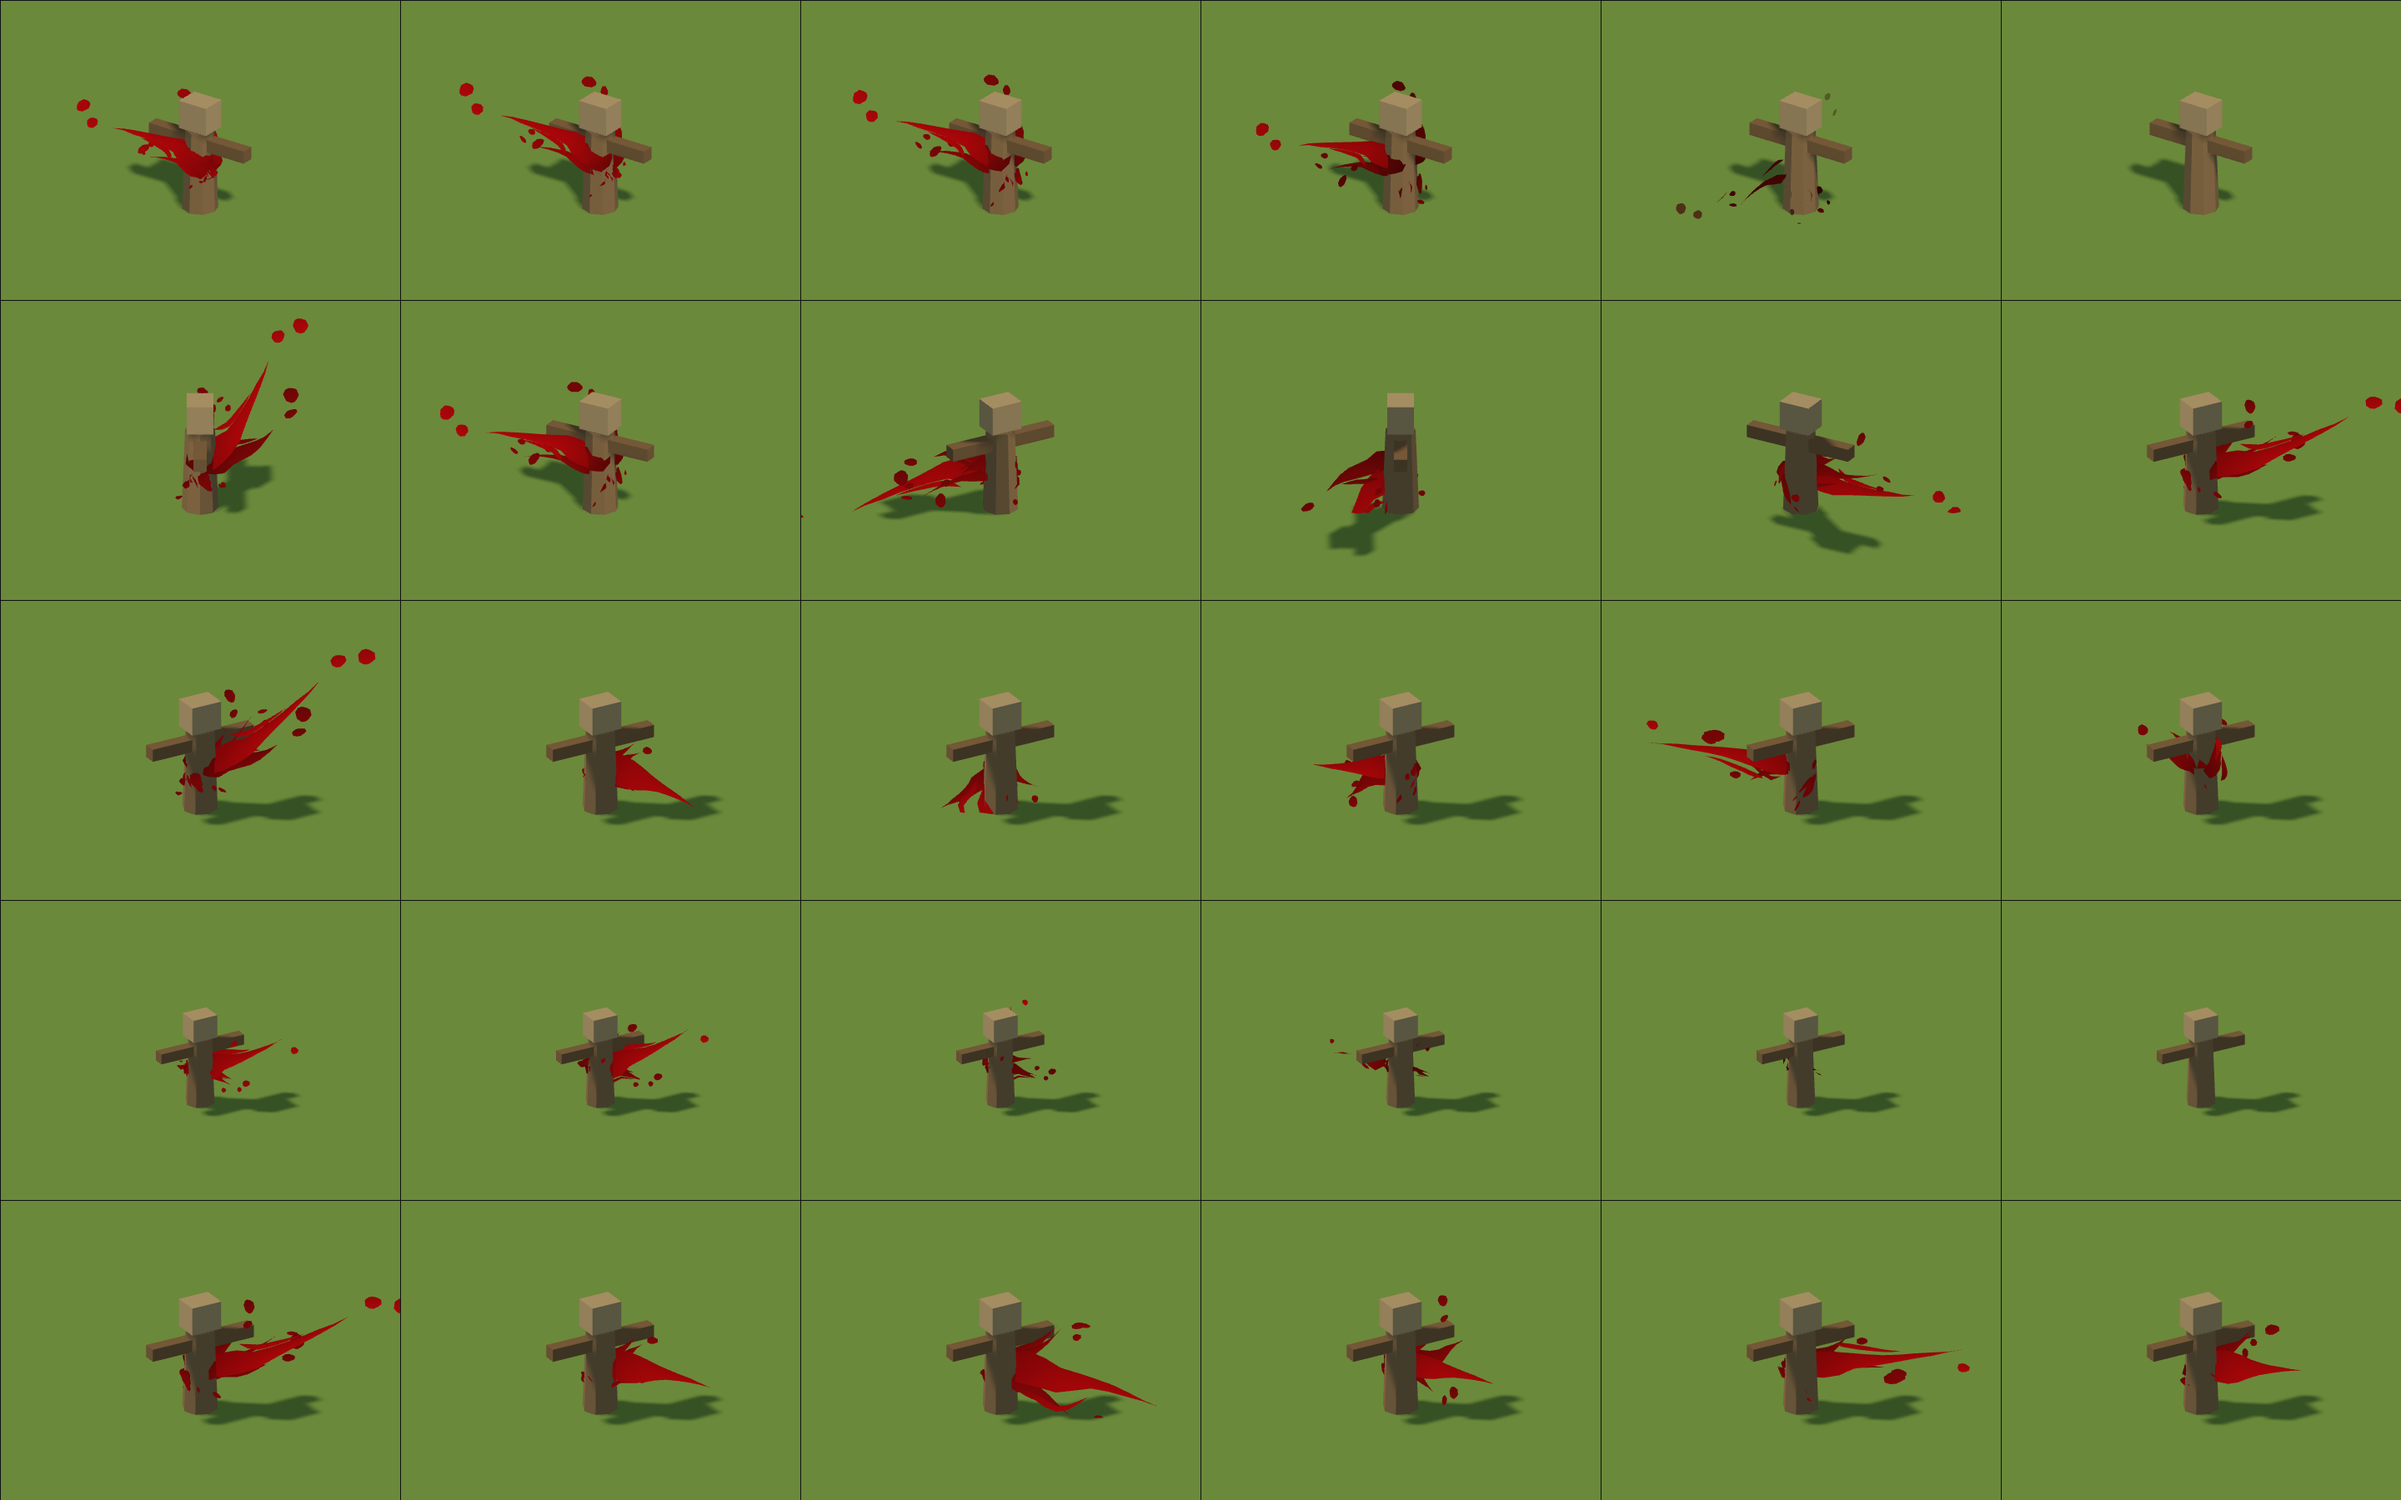
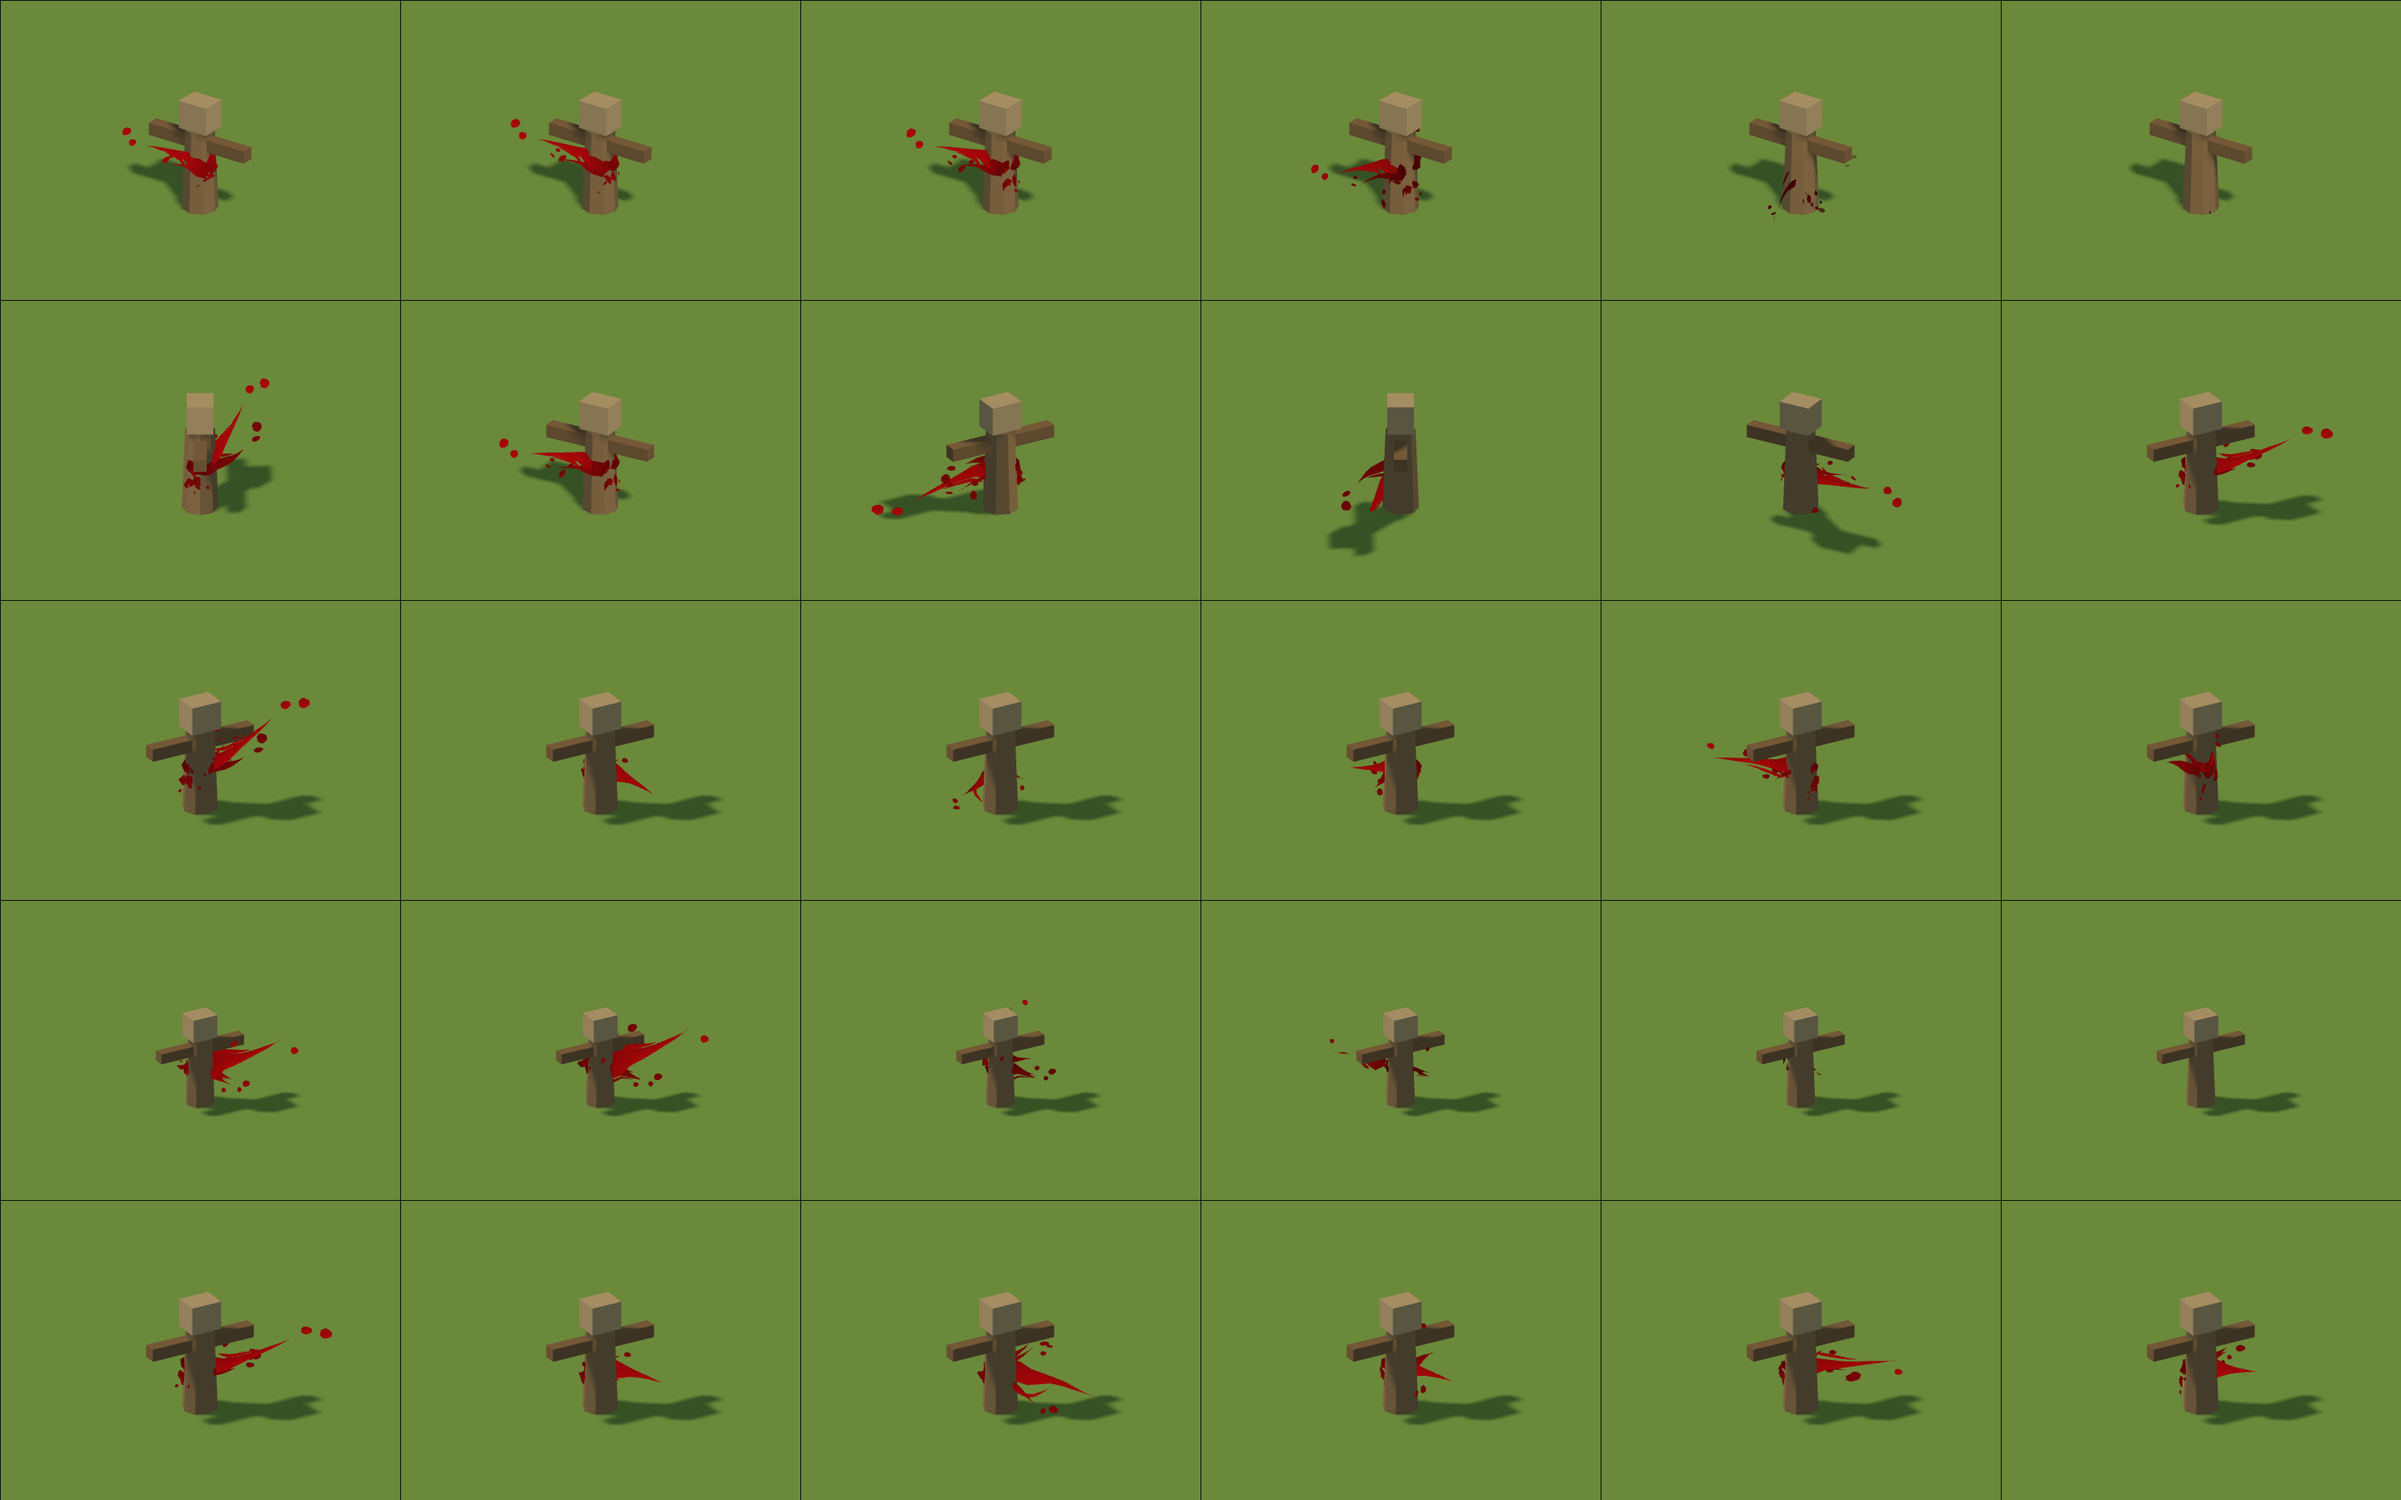
a smaller paintbrush for a blow (spec 218)
A stroke's authored size is its length, so spec 159's `scale: 26` put the
dominant mark of every ordinary swing at 80 world units against a body of ten
units' radius -- four body-widths of paint, laid across the target and out the
far side. At 17 it is 53 units and 40% of the painted area: a mark on the
target rather than one draped over it.

How small was measured rather than judged. `preview-brush-vfx.ts` requires the
thinnest of six camera bearings to keep 40% of the fattest one's ink, and that
ratio falls faster than the mark does -- a pixel counts as ink only past a
fixed difference from the ground, so shrinking deletes the already-marginal
edge-on view rather than thinning it. 26 keeps 57%, 20 keeps 53%, 17 keeps
46%, and 15 keeps 36% and fails, taking the seed-variation check with it. 17
is the smallest that stays green.

The loud variant is derived from it rather than authored beside it, so a
killing blow stays the same language read louder instead of drifting into a
different effect the next time one of the two moves.

Claude-Session: https://claude.ai/code/session_015SFrnWuFmWu4CbzyK5WkEo

diff --git a/src/render/iso3d/vfx/brush.ts b/src/render/iso3d/vfx/brush.ts
@@ -1179,11 +1179,53 @@ export const BRUSH_EXPLOSION_RADIUS = 60;
 /** Below this intensity a hit plays the light mark, above it the loud one. */
 export const HEAVY_HIT_INTENSITY = 1.35;
 
+/**
+ * How long the dominant mark of an ordinary hit is, in world units (spec 218).
+ *
+ * A stroke's authored size *is* its length (`stroke.ts` builds the spine over a
+ * unit span), and `bloodHit` gives the primary `scale * 3.1` -- so this number
+ * times three is the whole gesture, and every other length in the effect is a
+ * fraction of it. That is what makes it the one knob worth naming: `velocity` is
+ * `scale * 7`, the fan radii are fractions of `scale`, and the medium marks and
+ * the dabs are `1.62` and `0.42` of it.
+ *
+ * Spec 159 authored it at 26, which puts an ordinary swing's mark at **80 units**
+ * against a body of ten units' radius -- four body-widths of paint, laid across
+ * the target and out the far side, for every blow anybody lands. At 17 the
+ * gesture is 53 units: a mark *on* the target rather than one draped over it,
+ * and 40% of the painted area.
+ *
+ * The floor under it was **measured rather than judged**, and it is the one
+ * thing about this number that is not taste. `preview-brush-vfx.ts`
+ * photographs the same hit from six camera bearings and requires the thinnest
+ * to keep 40% of the fattest one's ink -- a mark seen edge-on narrows, and one
+ * that disappears from a seat is a blow the player in that seat cannot read.
+ * That ratio is scale-dependent in a way the *composition* is not: a pixel
+ * counts as ink only once it differs from the ground by a fixed amount, so
+ * shrinking the mark does not thin the edge-on view proportionally, it deletes
+ * the part of it that was already marginal. Measured: 26 keeps 57%, 20 keeps
+ * 53%, 17 keeps 46%, and 15 keeps **36%** and fails -- taking the
+ * seed-variation check with it, for the same reason one level down. So this is
+ * as small as the mark goes while still reading from every angle, and the run
+ * that says so is the sheet beside it.
+ */
+export const BLOOD_HIT_SCALE = 17;
+
+/**
+ * How much bigger a killing blow's mark is (spec 159's 36 against 26).
+ *
+ * Derived rather than authored a second time, because *"the same language read
+ * louder"* is the rule the whole hit vocabulary is built on and two independent
+ * numbers are how a family drifts apart: shrink one and the other silently
+ * becomes a different effect rather than a louder one.
+ */
+export const HEAVY_HIT_SCALE = 1.4;
+
 export const BRUSH_EFFECTS: readonly EffectDefinition[] = [
   // The blow that lands, and the blow that finishes. The same language read
   // louder -- more marks, thrown further, held a little longer -- never a
   // different one, which is the rule the whole hit vocabulary is authored to.
-  bloodHit({ id: 'blood_hit_brush', scale: 26 }),
+  bloodHit({ id: 'blood_hit_brush', scale: BLOOD_HIT_SCALE }),
   /**
    * The one that never lands: a spatter that hangs and thins away.
    *
@@ -1241,7 +1283,7 @@ export const BRUSH_EFFECTS: readonly EffectDefinition[] = [
 
   bloodHit({
     id: 'blood_hit_brush_heavy',
-    scale: 36,
+    scale: Math.round(BLOOD_HIT_SCALE * HEAVY_HIT_SCALE),
     // Still ONE dominant mark. A killing blow is a bigger gesture, not two
     // gestures -- the loud variant grows the primary and adds company to it.
     strokes: 1,

diff --git a/src/render/iso3d/vfx/brush.test.ts b/src/render/iso3d/vfx/brush.test.ts
@@ -17,8 +17,10 @@ import {
   brushExplosionRequest,
   BRUSH_EFFECTS,
   brushCross,
+  BLOOD_HIT_SCALE,
   BRUSH_EXPLOSION_RADIUS,
   CROSS_YAWS,
+  HEAVY_HIT_SCALE,
   EXPLOSION_PALETTE,
   HEAVY_HIT_INTENSITY,
   NORMAL_LIFT,
@@ -275,6 +277,39 @@ describe('the blood hit', () => {
     expect(count(heavy)).toBeGreaterThan(count(light));
     // The same shapes, in the same order: louder, never different.
     expect(heavy.emitters.map((e) => e.mesh?.shape)).toEqual(light.emitters.map((e) => e.mesh?.shape));
+  });
+
+  it('is a mark on a body rather than one laid across it (spec 218)', () => {
+    // A stroke's authored size *is* its length in world units (`stroke.ts`
+    // builds the spine over a unit span), and a body is about ten units of
+    // radius -- `vfx-wire.ts`'s `CONTACT_RADIUS`, which is "about the radius of
+    // a body", is 12. Spec 159 authored `scale: 26`, which puts the dominant
+    // mark at `26 * 3.1` = 80 units: four body-widths of paint out of every
+    // ordinary swing, laid across the target and out the far side.
+    const primary = (id: string): number => {
+      const emitter = byId(id).emitters.find((entry) => entry.id === 'primary');
+      return Math.max(...(emitter?.size.keys.map(([, value]) => value) ?? [0]));
+    };
+    expect(primary('blood_hit_brush')).toBeLessThan(60);
+    // And still a *gesture*: smaller than the body it comes off is a fleck.
+    expect(primary('blood_hit_brush')).toBeGreaterThan(24);
+  });
+
+  it('sizes the loud variant off the ordinary one rather than beside it', () => {
+    // Two independently authored numbers are how a family drifts apart: shrink
+    // one and the other stops being the same language read louder and becomes a
+    // different effect. The heavy mark is the light one times a stated ratio.
+    const primary = (id: string): number => {
+      const emitter = byId(id).emitters.find((entry) => entry.id === 'primary');
+      return Math.max(...(emitter?.size.keys.map(([, value]) => value) ?? [0]));
+    };
+    // `strokeLength` is 1.15 on the heavy variant, so the marks differ by the
+    // scale ratio *and* that -- the ratio is asserted where it is authored.
+    expect(Math.round(BLOOD_HIT_SCALE * HEAVY_HIT_SCALE) / BLOOD_HIT_SCALE).toBeCloseTo(
+      HEAVY_HIT_SCALE,
+      1,
+    );
+    expect(primary('blood_hit_brush_heavy')).toBeGreaterThan(primary('blood_hit_brush'));
   });
 
   it('mists: nothing falls, and it thins away instead of landing', () => {
